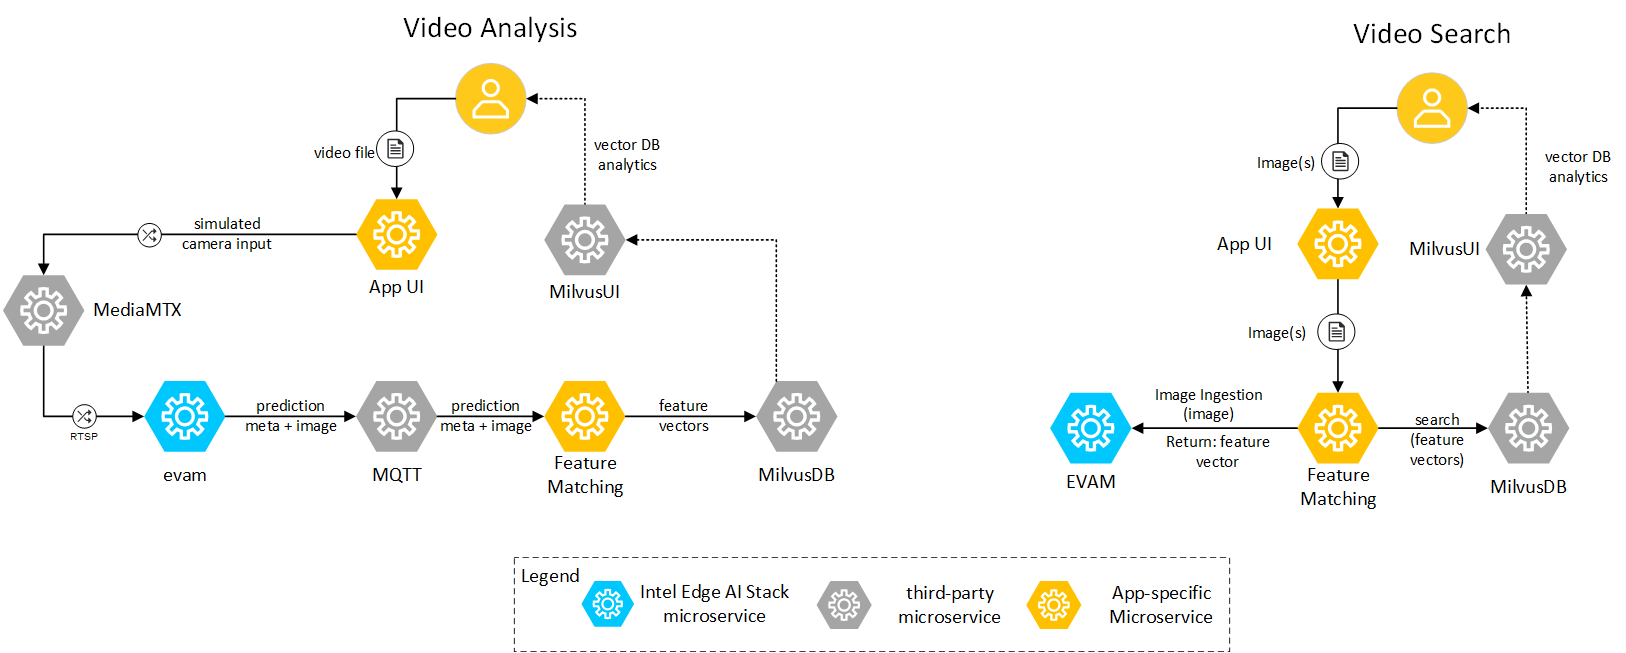
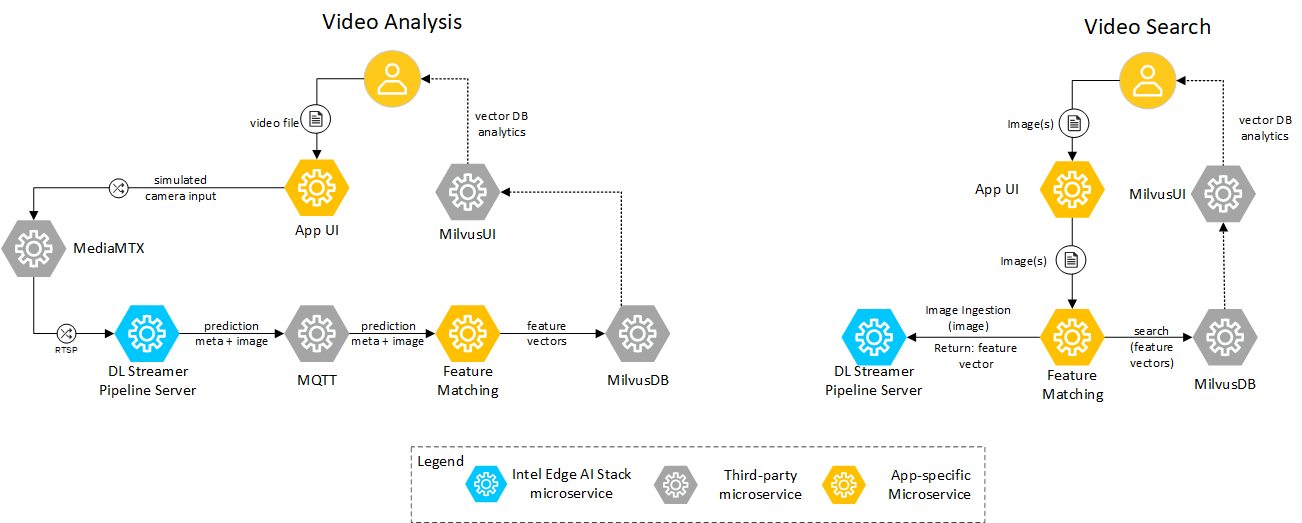
DL Streamer Pipeline Server Documentation in Search Image by Image(#34)
* Replace EVAM with DL Streamer Pipeline Server

diff --git a/search-image-by-image/docs/user-guide/release-notes.md b/search-image-by-image/docs/user-guide/release-notes.md
@@ -47,10 +47,10 @@ Details about the changes, improvements, and known issues in this release of the
      - [Learn More](./how-to-customize.md)
 -->
 
-- **MediaMTX**: This third-party microservice simulates remote video cameras placed in various geographical locations. The service can replay videos from recorded files and publish them as live video streams in different formats. The RTSP stream is sent to EVAM microservice for extraction of feature vectors. The WebRTC stream is useful for displaying live video streams in this web application.
-- **EVAM**: This microservice operates either in streaming mode (video analysis) or image ingestion mode (video search). During the video analysis phase, it consumes RTSP streams from simulated remote cameras and performs object detection and feature extraction tasks. The resulting predictions are published as metadata to an MQTT Broker. During the video search phase, the microservice returns feature vectors for submitted images.
-- **Feature Matching**: This microservice interacts with EVAM and Vector DB. During the video analysis phase, it inserts feature vectors (image embeddings) generated by EVAM into Vector DB. Additionally, it stores frames that are useful for displaying in search results when a user searches for an object. During the video search phase, the microservice queries EVAM to get feature vectors for the user-provided image and then queries Vector DB to find the matching frame(s) from video streams processed in the analysis phase.
-- **MQTT**: This third-party microservice transfers a stream of metadata between EVAM and Feature Matching during the video analysis phase.
+- **MediaMTX**: This third-party microservice simulates remote video cameras placed in various geographical locations. The service can replay videos from recorded files and publish them as live video streams in different formats. The RTSP stream is sent to DL Streamer Pipeline Server microservice for extraction of feature vectors. The WebRTC stream is useful for displaying live video streams in this web application.
+- **Deep Learning Streamer Pipeline Server**: This microservice operates either in streaming mode (video analysis) or image ingestion mode (video search). During the video analysis phase, it consumes RTSP streams from simulated remote cameras and performs object detection and feature extraction tasks. The resulting predictions are published as metadata to an MQTT Broker. During the video search phase, the microservice returns feature vectors for submitted images.
+- **Feature Matching**: This microservice interacts with DL Streamer Pipeline Server and Vector DB. During the video analysis phase, it inserts feature vectors (image embeddings) generated by the Pipeline Server into Vector DB. Additionally, it stores frames that are useful for displaying in search results when a user searches for an object. During the video search phase, the microservice queries the Pipeline Server to get feature vectors for the user-provided image and then queries Vector DB to find the matching frame(s) from video streams processed in the analysis phase.
+- **MQTT**: This third-party microservice transfers a stream of metadata between DL Streamer Pipeline Server and Feature Matching during the video analysis phase.
 - **MilvusDB**: This third-party microservice stores feature vectors in a Vector DB and provides a vector search to find the closest match between a user-provided image and previously processed video frames.
 
 

diff --git a/search-image-by-image/README.md b/search-image-by-image/README.md
@@ -23,10 +23,10 @@ The application includes a demonstration video for testing. The video loops cont
 
 ### Processing
 
-- **Video analysis with Edge Video Analytics Microservice (EVAM) and MediaMTX**: Select **Analyze Stream** to start the EVAM pipeline. EVAM processes video through **MediaMTX**, which simulates remote video cameras and publishes live streams. EVAM extracts frames and detects objects in each frame, publishing predictions through **MQTT**.
-- **Feature extraction with Feature Matching**: EVAM sends metadata and images through MQTT to the Feature Matching microservice. Feature Matching generates feature vectors. If predictions exceed the threshold, the system stores vector embeddings in MilvusDB and saves frames in the Docker file system.
+- **Video analysis with Deep Learning Streamer Pipeline Server and MediaMTX**: Select **Analyze Stream** to start the DL Streamer Pipeline Server pipeline. The Pipeline Server processes video through **MediaMTX**, which simulates remote video cameras and publishes live streams. The Pipeline Server extracts frames and detects objects in each frame, publishing predictions through **MQTT**.
+- **Feature extraction with Feature Matching**: DL Streamer Pipeline Server sends metadata and images through MQTT to the Feature Matching microservice. Feature Matching generates feature vectors. If predictions exceed the threshold, the system stores vector embeddings in MilvusDB and saves frames in the Docker file system.
 - **Storage and retrieval in MilvusDB**: MilvusDB stores feature vectors. You can review them in MilvusUI.
-- **Video search with ImageIngestor**: To search, first analyze the stream by selecting **Analyze Stream**. Then upload an image or capture an object from the video using **Upload Image** or **Capture Frame**. You can adjust the frame to capture a specific object. The system ingests images via ImageIngestor, processes them with EVAM, and matches them against stored feature vectors in MilvusDB.
+- **Video search with ImageIngestor**: To search, first analyze the stream by selecting **Analyze Stream**. Then upload an image or capture an object from the video using **Upload Image** or **Capture Frame**. You can adjust the frame to capture a specific object. The system ingests images via ImageIngestor, processes them with DL Streamer Pipeline Server, and matches them against stored feature vectors in MilvusDB.
 
 ### Outputs
 

diff --git a/search-image-by-image/docs/user-guide/Overview.md b/search-image-by-image/docs/user-guide/Overview.md
@@ -23,10 +23,10 @@ The application includes a demonstration video for testing. The video loops cont
 
 ### Processing
 
-- **Video analysis with Edge Video Analytics Microservice (EVAM) and MediaMTX**: Select **Analyze Stream** to start the EVAM pipeline. EVAM processes video through **MediaMTX**, which simulates remote video cameras and publishes live streams. EVAM extracts frames and detects objects in each frame, publishing predictions through **MQTT**.
-- **Feature extraction with Feature Matching**: EVAM sends metadata and images through MQTT to the Feature Matching microservice. Feature Matching generates feature vectors. If predictions exceed the threshold, the system stores vector embeddings in MilvusDB and saves frames in the Docker file system.
+- **Video analysis with Deep Learning Streamer Pipeline Server and MediaMTX**: Select **Analyze Stream** to start the DL Streamer Pipeline Server pipeline. The Pipeline Server processes video through **MediaMTX**, which simulates remote video cameras and publishes live streams. The Pipeline Server extracts frames and detects objects in each frame, publishing predictions through **MQTT**.
+- **Feature extraction with Feature Matching**: DL Streamer Pipeline Server sends metadata and images through MQTT to the Feature Matching microservice. Feature Matching generates feature vectors. If predictions exceed the threshold, the system stores vector embeddings in MilvusDB and saves frames in the Docker file system.
 - **Storage and retrieval in MilvusDB**: MilvusDB stores feature vectors. You can review them in MilvusUI.
-- **Video search with ImageIngestor**: To search, first analyze the stream by selecting **Analyze Stream**. Then upload an image or capture an object from the video using **Upload Image** or **Capture Frame**. You can adjust the frame to capture a specific object. The system ingests images via ImageIngestor, processes them with EVAM, and matches them against stored feature vectors in MilvusDB.
+- **Video search with ImageIngestor**: To search, first analyze the stream by selecting **Analyze Stream**. Then upload an image or capture an object from the video using **Upload Image** or **Capture Frame**. You can adjust the frame to capture a specific object. The system ingests images via ImageIngestor, processes them with DL Streamer Pipeline Server, and matches them against stored feature vectors in MilvusDB.
 
 ### Outputs
 

diff --git a/search-image-by-image/docs/user-guide/overview-architecture.md b/search-image-by-image/docs/user-guide/overview-architecture.md
@@ -23,7 +23,7 @@ The Search Image by Image Application is designed to:
    - **User-provided images for search**: Allows users to upload images or for searching within the video streams.
 
 2. **Video Analysis Pipeline**:
-   - **EVAM Microservice**:
+   - **Deep Learning Streamer Pipeline Server**:
      - Consumes RTSP streams for object detection and feature extraction.
      - Publishes metadata to an MQTT Broker.
    - **Feature Matching Microservice**:
@@ -32,7 +32,7 @@ The Search Image by Image Application is designed to:
 
 3. **Video Search Pipeline**:
    - **Feature Matching Microservice**:
-     - Queries EVAM for feature vectors of user-provided images.
+     - Queries DL Streamer Pipeline Server for feature vectors of user-provided images.
      - Searches MilvusDB to find matching frames.
 
 4. **Output Generation**:
@@ -45,7 +45,7 @@ The Search Image by Image Application is designed to:
    - **How it’s used**: Replays videos as RTSP/WebRTC streams for processing and display.
    - **Benefits**: Allows testing of video search features without physical cameras.
 
-2. **EVAM (Microservice for Feature Extraction)**
+2. **DL Streamer Pipeline Server (Microservice for Feature Extraction)**
    - **What it is**: A microservice that processes video streams for object detection and feature extraction.
    - **How it’s used**: Converts RTSP streams into feature vectors and publishes metadata.
    - **Benefits**: Enables efficient AI-powered video analysis.
@@ -57,7 +57,7 @@ The Search Image by Image Application is designed to:
 
 4. **MQTT Broker (Third-Party Microservice)**
    - **What it is**: A message broker for streaming metadata between services.
-   - **How it’s used**: Transfers feature metadata between EVAM and Feature Matching.
+   - **How it’s used**: Transfers feature metadata between DL Streamer Pipeline Server and Feature Matching.
    - **Benefits**: Ensures smooth, real-time metadata communication.
 
 5. **MilvusDB (Vector Database)**

diff --git a/search-image-by-image/BILL_OF_MATERIALS.md b/search-image-by-image/BILL_OF_MATERIALS.md
@@ -2,6 +2,6 @@
 
 | Component                | Included Services/Tools                          |
 |--------------------------|--------------------------------------------------|
-| VisionAI microservices   | EVAM, Feature Matching, RTSP Client              |
+| VisionAI microservices   | Deep Learning Streamer Pipeline Server, Feature Matching, RTSP Client              |
 | Third-party microservices| MQTT, Milvus                                     |
 | Application logic/gui    | Various Python libraries, models, video files    |
